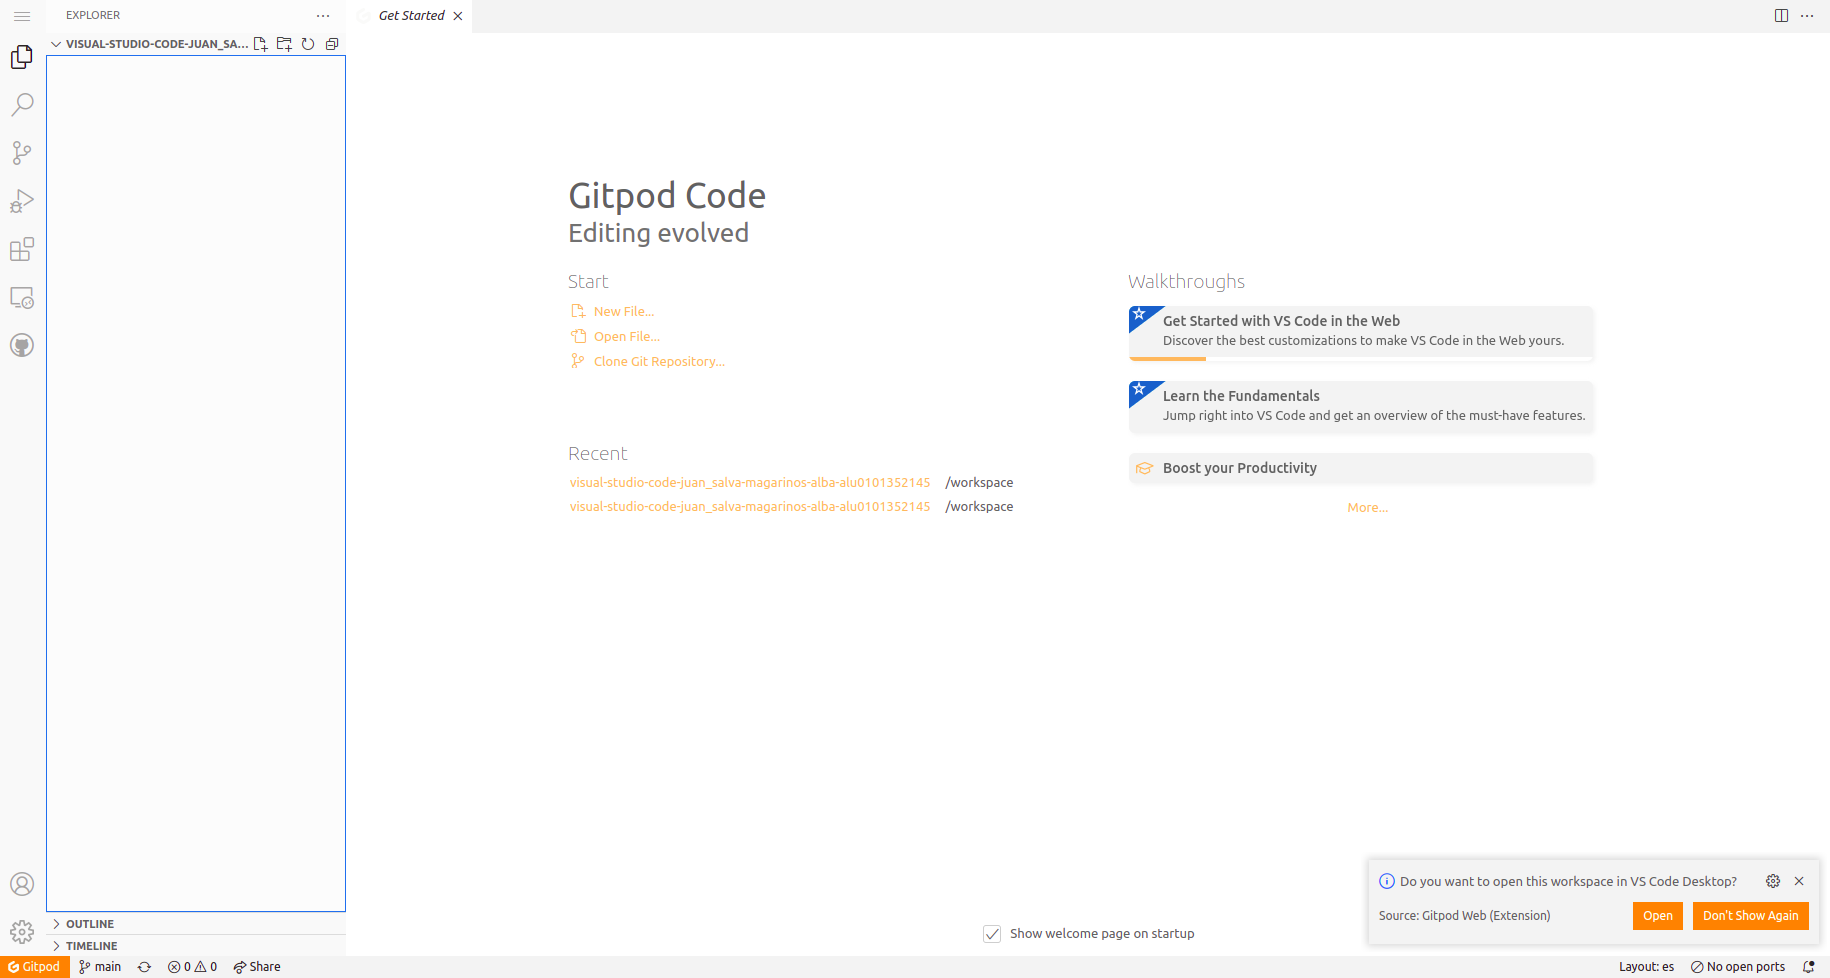
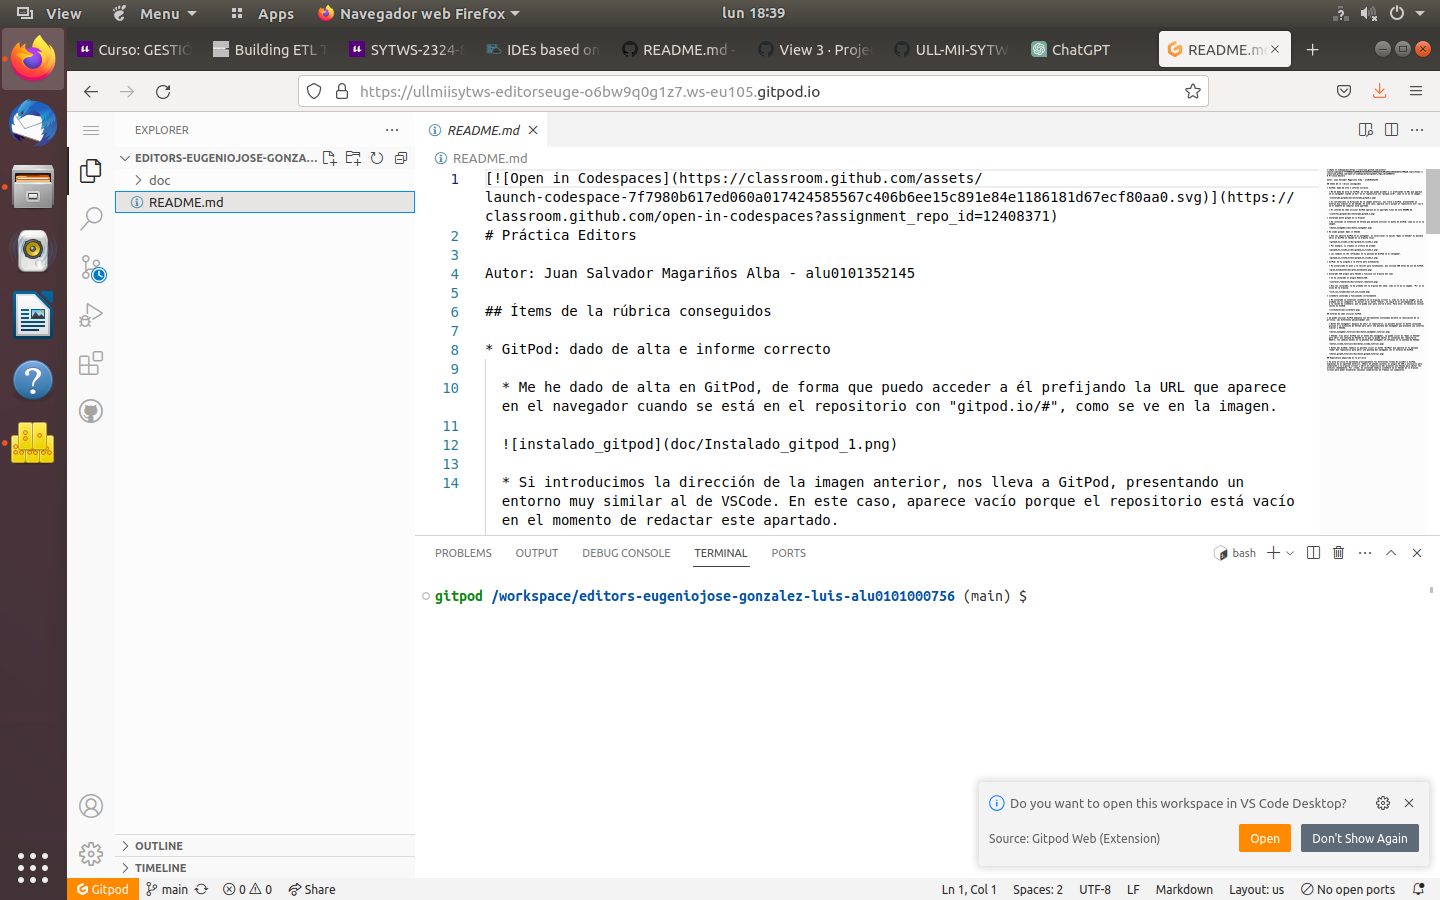
Done

diff --git a/README.md b/README.md
@@ -1,25 +1,33 @@
 [![Open in Codespaces](https://classroom.github.com/assets/launch-codespace-7f7980b617ed060a017424585567c406b6ee15c891e84e1186181d67ecf80aa0.svg)](https://classroom.github.com/open-in-codespaces?assignment_repo_id=12408371)
 # Práctica Editors
 
-Autor: Juan Salvador Magariños Alba - alu0101352145
+Autor: Eugenio José González Luis - alu0101000756
+
+## Codespaces
+
+Se ha usado codespaces para realizar la practica
+
+  ![Codespaces](doc/Codespaces.png)
+
+Estos codespaces estan personalizados con dotfiles contenidos en un repo.
+
+  ![dotfiles](doc/dotfiles.png)
+
+
 
 ## Ítems de la rúbrica conseguidos
 
 * GitPod: dado de alta e informe correcto
 
-  * Me he dado de alta en GitPod, de forma que puedo acceder a él prefijando la URL que aparece en el navegador cuando se está en el repositorio con "gitpod.io/#", como se ve en la imagen.
+  * Me he dado de alta en GitPod, de forma que puedo acceder a él prefijando la URL que aparece en el navegador cuando se está en el repositorio con "gitpod.io/#".
 
-  ![instalado_gitpod](doc/Instalado_gitpod_1.png)
-
-  * Si introducimos la dirección de la imagen anterior, nos lleva a GitPod, presentando un entorno muy similar al de VSCode. En este caso, aparece vacío porque el repositorio está vacío en el momento de redactar este apartado.
-
-  * El informe de cómo utilizar GitPod aparece en el apartado final de este README.md.
+  * Si introducimos la dirección de la imagen anterior, nos lleva a GitPod, presentando un entorno muy similar al de Codespaces visto Anteriormente.
 
   ![interfaz_gitpod](doc/Instalado_gitpod_2.png)
 
 * Instalado botón gitpod en su browser
 
-  * He instalado la extensión de Chrome que permite utilizar el botón de GitPod, como se ve en la imagen.
+  * He instalado la extensión de Firefox que permite utilizar el botón de GitPod, como se ve en la imagen.
 
   ![boton_navegador](doc/boton_navegador.png)
 
@@ -29,19 +37,10 @@ Autor: Juan Salvador Magariños Alba - alu0101352145
 
   ![gitpod_en_vscode_1](doc/gitpod_en_vscode_1.png)
 
-  * Por ejemplo, si creamos un archivo de prueba:
+  * Por ejemplo, si creamos un archivo de prueba automaticamente se crea en gitpod:
 
   ![gitpod_en_vscode_2](doc/gitpod_en_vscode_2.png)
 
-  * Los cambios se ven reflejados en la pestaña de GitPod en el navegador.
-
-  ![gitpod_en_vscode_3](doc/gitpod_en_vscode_3.png)
-
-* GitPod: Se ha acogido a la oferta para estudiantes
-
-  * He actualizado el plan a la versión para estudiantes, que incluye 100 horas de uso de GitPod.
-
-  ![plan_estudiante](doc/plan_estudiante.png)
 
 * Instalado SSH plugin para VSCode y funciona con máquina del iaas
 
@@ -49,32 +48,11 @@ Autor: Juan Salvador Magariños Alba - alu0101352145
 
   ![instalar_remotessh](doc/instalar_remotessh.png)
 
-  * Una vez instalado, se ha probado con la máquina del IaaS, como se ve en la imagen. "PL" es un alias de la máquina.
+  * En la imagen del ejemplo de uso de gitpod se puede apreciar que esta conectado a gitpod mediante ssh.
 
-  ![ssh_con_vscode](doc/ssh_con_vscode.png)
 
 * LiveShare instalado y funcionando correctamente
 
   * He instalado la extensión LiveShare en la máquina virtual y, como se ve en la imagen, lo he probado con un compañero. Al pulsar en el botón "Share", se copia en el portapapeles el enlace a la sesión de LiveShare, que se puede usar para unirse a ella. Para ello, es necesario iniciar sesión en GitHub.
 
   ![liveshare](doc/liveshare.png)
-
-## Informe de cómo utilizar GitPod
-
-* Se puede utilizar GitPod mediante las herramientas instaladas durante la realización de la práctica. Las diferentes posibilidades son:
-
-  * Botón del navegador: después de abrir un repositorio, es posible pulsar el botón instalado gracias a la extensión de Chrome para abrir una pestaña del navegador que presenta una interfaz similar a VSCode.
-
-  ![boton_navegador_tutorial](doc/boton_navegador_tutorial.png)
-
-  * VSCode: tras abrir GitPod con el botón del navegador, se puede clicar en "Open in VSCode" para abrir una ventana de VSCode en la que se puede editar el contenido del repositorio. Además, los cambios hechos en la pestaña del navegador se reflejan en la ventana de VSCode.
-
-  ![boton_vscode_tutorial](doc/boton_vscode_tutorial.png)
-
-  * Botón del GitHub: también es posible clicar el botón "GitPod" que aparece en la pestaña "Code" del repositorio para abrir una pestaña del navegador con el entorno de GitPod.
-
-  ![boton_gitpod_tutorial](doc/boton_gitpod_tutorial.png)
-
-## Experiencia adquirida en la práctica
-
-* En esta práctica he aprendido principalmente las diferentes formas de acceder a GitPod, expuestas en el apartado anterior. Además he podido instalar el plugin de SSH y utilizarlo para conectarme a la máquina virtual y abrir el repositorio del proyecto con VSCode para editar los archivos cómodamente. Por último, he instalado también LiveShare en el VSCode de la máquina virtual para poder establecer sesiones cooperativas de trabajo con compañeros.
